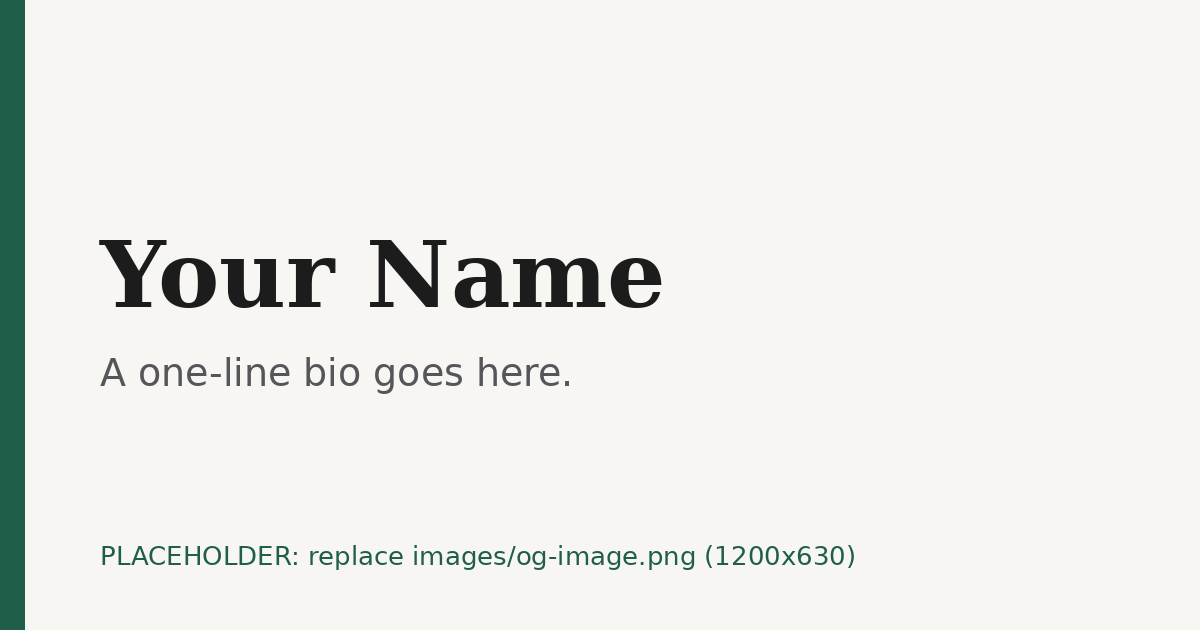
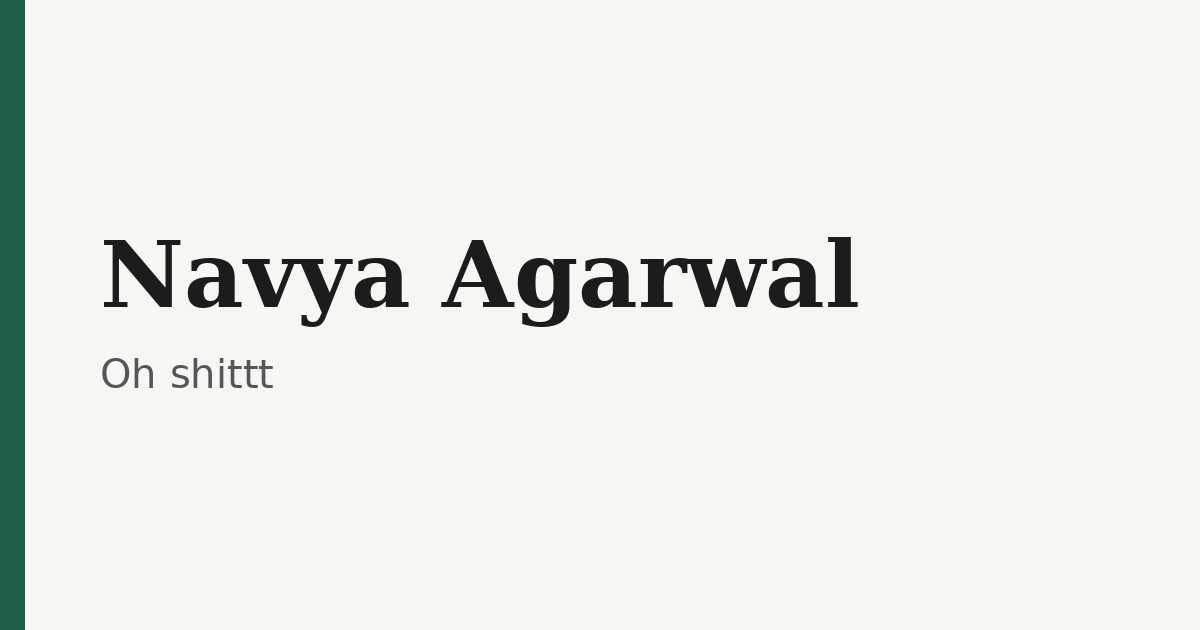
Fill in Navya's details
Claude-Session: https://claude.ai/code/session_01SwxmK1E1K1iMWgR6x9E99Q

Changed region(s): [[0.0925, 0.3619, 0.7092, 0.5429], [0.0925, 0.8444, 0.7092, 0.9048], [0.0617, 0.573, 0.4625, 0.6333]]

diff --git a/index.html b/index.html
@@ -6,31 +6,31 @@
 
   <!-- ============================================================
        SEO + SOCIAL SHARING
-       EDIT ME: replace "Your Name", the description, and the URL
+       EDIT ME: update your name, the description, and the URL
        below once you know your Netlify address (e.g. https://yourname.netlify.app).
        ============================================================ -->
-  <title>Your Name · Personal Website</title>
-  <meta name="description" content="Your Name — a one-line bio that says what you do and what you care about.">
-  <meta name="author" content="Your Name">
+  <title>Navya Agarwal · Personal Website</title>
+  <meta name="description" content="Navya Agarwal — Oh shittt">
+  <meta name="author" content="Navya Agarwal">
   <meta name="theme-color" content="#f7f6f3" media="(prefers-color-scheme: light)">
   <meta name="theme-color" content="#121212" media="(prefers-color-scheme: dark)">
   <meta name="color-scheme" content="light dark">
 
   <!-- Open Graph (Facebook, LinkedIn, WhatsApp, Slack…) -->
   <meta property="og:type" content="website">
-  <meta property="og:title" content="Your Name · Personal Website">
-  <meta property="og:description" content="A one-line bio that says what you do and what you care about.">
+  <meta property="og:title" content="Navya Agarwal · Personal Website">
+  <meta property="og:description" content="Oh shittt">
   <meta property="og:url" content="https://your-site.netlify.app/">
   <!-- Social sites need a FULL URL for the image. Update the domain after deploying. -->
   <meta property="og:image" content="https://your-site.netlify.app/images/og-image.png">
   <meta property="og:image:width" content="1200">
   <meta property="og:image:height" content="630">
-  <meta property="og:image:alt" content="Your Name — personal website">
+  <meta property="og:image:alt" content="Navya Agarwal — personal website">
 
   <!-- Twitter / X -->
   <meta name="twitter:card" content="summary_large_image">
-  <meta name="twitter:title" content="Your Name · Personal Website">
-  <meta name="twitter:description" content="A one-line bio that says what you do and what you care about.">
+  <meta name="twitter:title" content="Navya Agarwal · Personal Website">
+  <meta name="twitter:description" content="Oh shittt">
   <meta name="twitter:image" content="https://your-site.netlify.app/images/og-image.png">
 
   <link rel="icon" href="images/favicon.svg" type="image/svg+xml">
@@ -42,7 +42,7 @@
   <header class="site-header">
     <nav class="nav container" aria-label="Main">
       <!-- EDIT ME: your initials or short name -->
-      <a class="nav__brand" href="#top">YN</a>
+      <a class="nav__brand" href="#top">NA</a>
 
       <button class="nav__toggle" type="button" aria-expanded="false" aria-controls="nav-menu">
         <span class="nav__toggle-bar" aria-hidden="true"></span>
@@ -64,9 +64,9 @@
       <div class="hero__text">
         <p class="eyebrow">Hello, I'm</p>
         <!-- EDIT ME: your name -->
-        <h1 id="hero-title" class="hero__title">Your Name</h1>
+        <h1 id="hero-title" class="hero__title">Navya Agarwal</h1>
         <!-- EDIT ME: your tagline / one-line bio -->
-        <p class="hero__tagline">A one-line bio that says what you do and what you care about.</p>
+        <p class="hero__tagline">Oh shittt</p>
         <div class="hero__actions">
           <a class="button button--primary" href="#projects">See my work</a>
           <a class="button button--ghost" href="#contact">Get in touch</a>
@@ -76,7 +76,7 @@
       <!-- IMAGE SPOT: replace images/profile.svg with your photo
            (e.g. images/profile.jpg, square, at least 600×600) and update src + alt. -->
       <figure class="hero__photo">
-        <img src="images/profile.svg" alt="Portrait of Your Name" width="600" height="600">
+        <img src="images/profile.svg" alt="Portrait of Navya Agarwal" width="600" height="600">
       </figure>
     </section>
 
@@ -85,21 +85,13 @@
       <h2 id="about-title" class="section__title">About</h2>
       <div class="about">
         <!-- EDIT ME: your longer bio, 2–3 sentences -->
-        <p class="about__bio">
-          This is where your longer bio goes. Two or three sentences about who you are,
-          what you're working on, and what drives you. Keep it warm and specific.
-        </p>
+        <p class="about__bio">Wohooo</p>
 
         <div>
           <h3 class="about__subtitle">What I do</h3>
           <!-- EDIT ME: your skills. Add or remove <li> lines freely. -->
           <ul class="tags" aria-label="Skills">
-            <li>Skill one</li>
-            <li>Skill two</li>
-            <li>Skill three</li>
-            <li>Skill four</li>
-            <li>Skill five</li>
-            <li>Skill six</li>
+            <li>Zzzzz</li>
           </ul>
         </div>
       </div>
@@ -113,35 +105,11 @@
       <div class="cards">
         <article class="card">
           <!-- IMAGE SPOT: replace images/project-1.svg with a screenshot (16:9 works best) -->
-          <img class="card__image" src="images/project-1.svg" alt="Screenshot of Project One" width="800" height="450" loading="lazy">
+          <img class="card__image" src="images/project-1.svg" alt="Screenshot of AI club" width="800" height="450" loading="lazy">
           <div class="card__body">
-            <h3 class="card__title">Project One</h3>
-            <p class="card__text">One-line description of what this project is and why it matters.</p>
-            <a class="card__link" href="https://example.com" target="_blank" rel="noopener noreferrer">
-              View project<span class="visually-hidden"> Project One (opens in a new tab)</span> <span aria-hidden="true">↗</span>
-            </a>
-          </div>
-        </article>
-
-        <article class="card">
-          <img class="card__image" src="images/project-2.svg" alt="Screenshot of Project Two" width="800" height="450" loading="lazy">
-          <div class="card__body">
-            <h3 class="card__title">Project Two</h3>
-            <p class="card__text">One-line description of what this project is and why it matters.</p>
-            <a class="card__link" href="https://example.com" target="_blank" rel="noopener noreferrer">
-              View project<span class="visually-hidden"> Project Two (opens in a new tab)</span> <span aria-hidden="true">↗</span>
-            </a>
-          </div>
-        </article>
-
-        <article class="card">
-          <img class="card__image" src="images/project-3.svg" alt="Screenshot of Project Three" width="800" height="450" loading="lazy">
-          <div class="card__body">
-            <h3 class="card__title">Project Three</h3>
-            <p class="card__text">One-line description of what this project is and why it matters.</p>
-            <a class="card__link" href="https://example.com" target="_blank" rel="noopener noreferrer">
-              View project<span class="visually-hidden"> Project Three (opens in a new tab)</span> <span aria-hidden="true">↗</span>
-            </a>
+            <h3 class="card__title">AI club</h3>
+            <p class="card__text">One-line description of what this project is and why it matters. <!-- EDIT ME --></p>
+            <!-- EDIT ME: add a link here, e.g. <a class="card__link" href="https://...">View project</a> -->
           </div>
         </article>
       </div>
@@ -154,19 +122,8 @@
       <!-- EDIT ME: one <li class="timeline__item"> per role or degree, newest first. -->
       <ol class="timeline">
         <li class="timeline__item">
-          <p class="timeline__date">2024 — Present</p>
-          <h3 class="timeline__role">Job Title · <span class="timeline__org">Company</span></h3>
-          <p class="timeline__text">A short highlight: what you did and the impact it had.</p>
-        </li>
-        <li class="timeline__item">
-          <p class="timeline__date">2021 — 2024</p>
-          <h3 class="timeline__role">Job Title · <span class="timeline__org">Company</span></h3>
-          <p class="timeline__text">A short highlight: what you did and the impact it had.</p>
-        </li>
-        <li class="timeline__item">
-          <p class="timeline__date">2017 — 2021</p>
-          <h3 class="timeline__role">Degree · <span class="timeline__org">University</span></h3>
-          <p class="timeline__text">Focus area, honours, or a notable project.</p>
+          <!-- EDIT ME: add the dates, school or company, and a sentence of detail -->
+          <h3 class="timeline__role">A+</h3>
         </li>
       </ol>
     </section>
@@ -178,9 +135,9 @@
 
       <!-- EDIT ME: your email address and profile links -->
       <ul class="contact__list">
-        <li><a class="button button--primary" href="mailto:you@example.com">you@example.com</a></li>
-        <li><a class="contact__link" href="https://www.linkedin.com/in/your-handle" target="_blank" rel="noopener noreferrer">LinkedIn<span class="visually-hidden"> (opens in a new tab)</span></a></li>
-        <li><a class="contact__link" href="https://github.com/your-handle" target="_blank" rel="noopener noreferrer">GitHub<span class="visually-hidden"> (opens in a new tab)</span></a></li>
+        <li><a class="button button--primary" href="mailto:navya.agarwal@gmail.com">navya.agarwal@gmail.com</a></li>
+        <!-- EDIT ME: add your LinkedIn here, e.g. <li><a class="contact__link" href="https://www.linkedin.com/in/your-handle">LinkedIn</a></li> -->
+        <li><a class="contact__link" href="https://github.com/navyafis" target="_blank" rel="noopener noreferrer">GitHub<span class="visually-hidden"> (opens in a new tab)</span></a></li>
       </ul>
     </section>
   </main>
@@ -188,7 +145,7 @@
   <footer class="site-footer">
     <div class="container site-footer__inner">
       <!-- EDIT ME: your name -->
-      <p>© <span id="year">2026</span> Your Name</p>
+      <p>© <span id="year">2026</span> Navya Agarwal</p>
       <a href="#top">Back to top <span aria-hidden="true">↑</span></a>
     </div>
   </footer>
